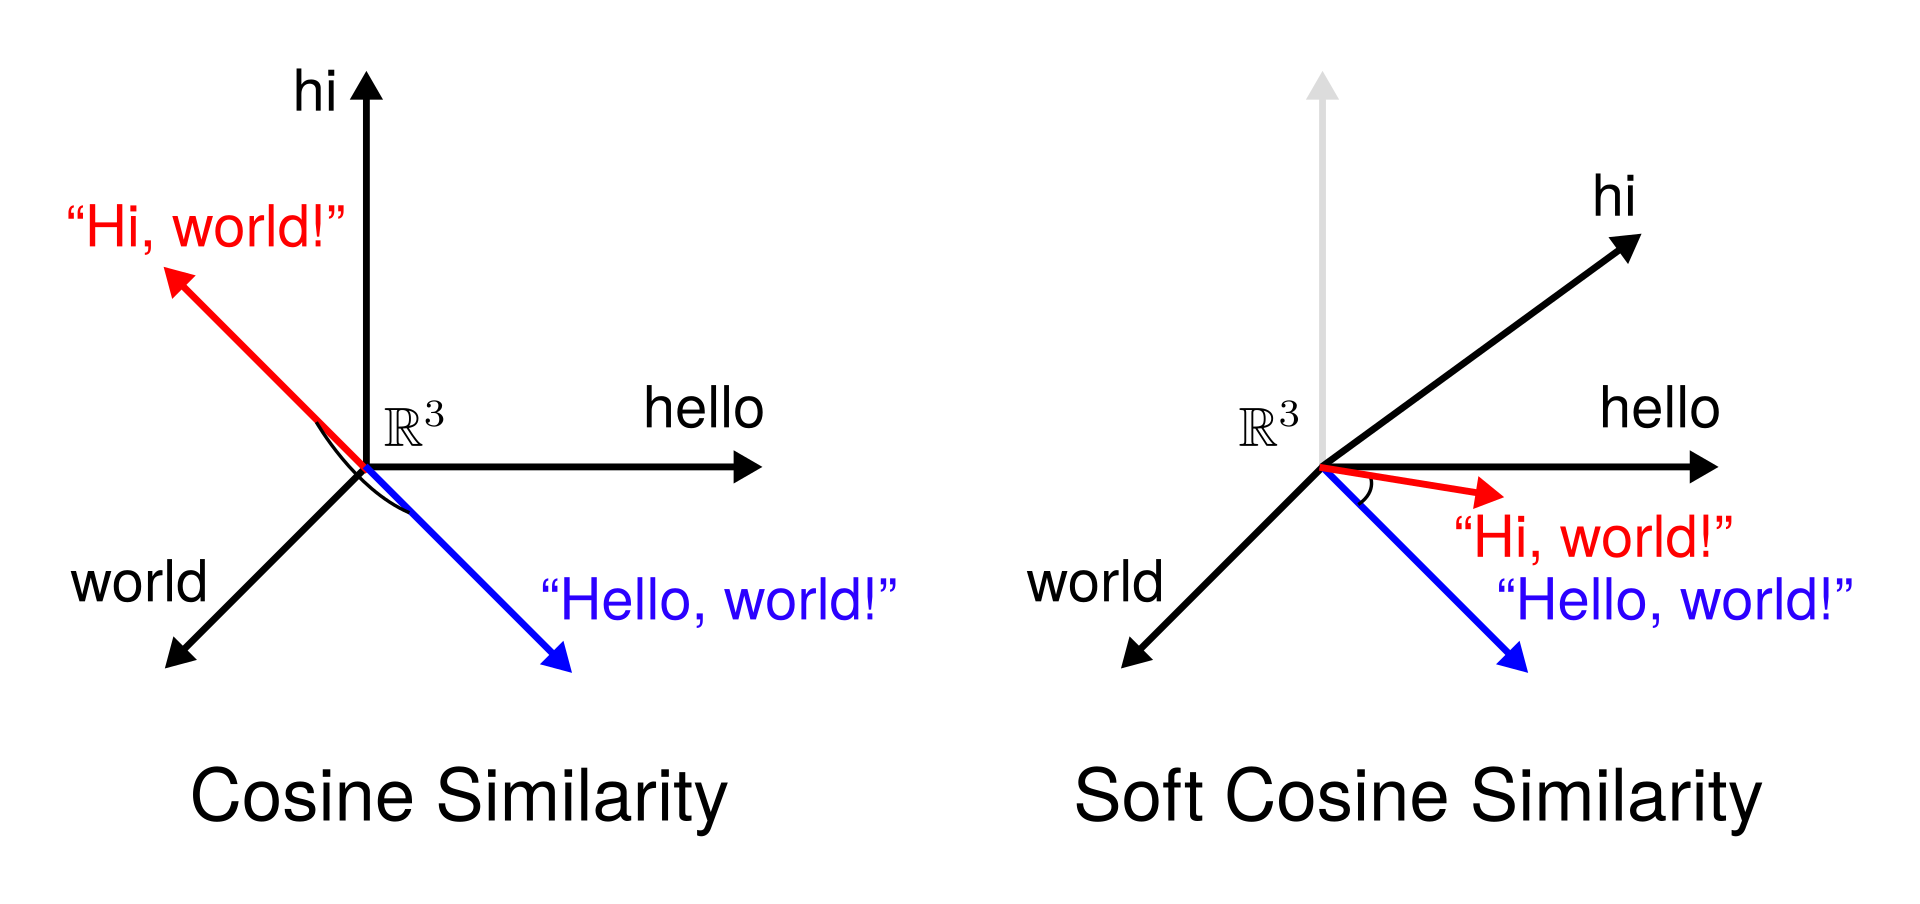
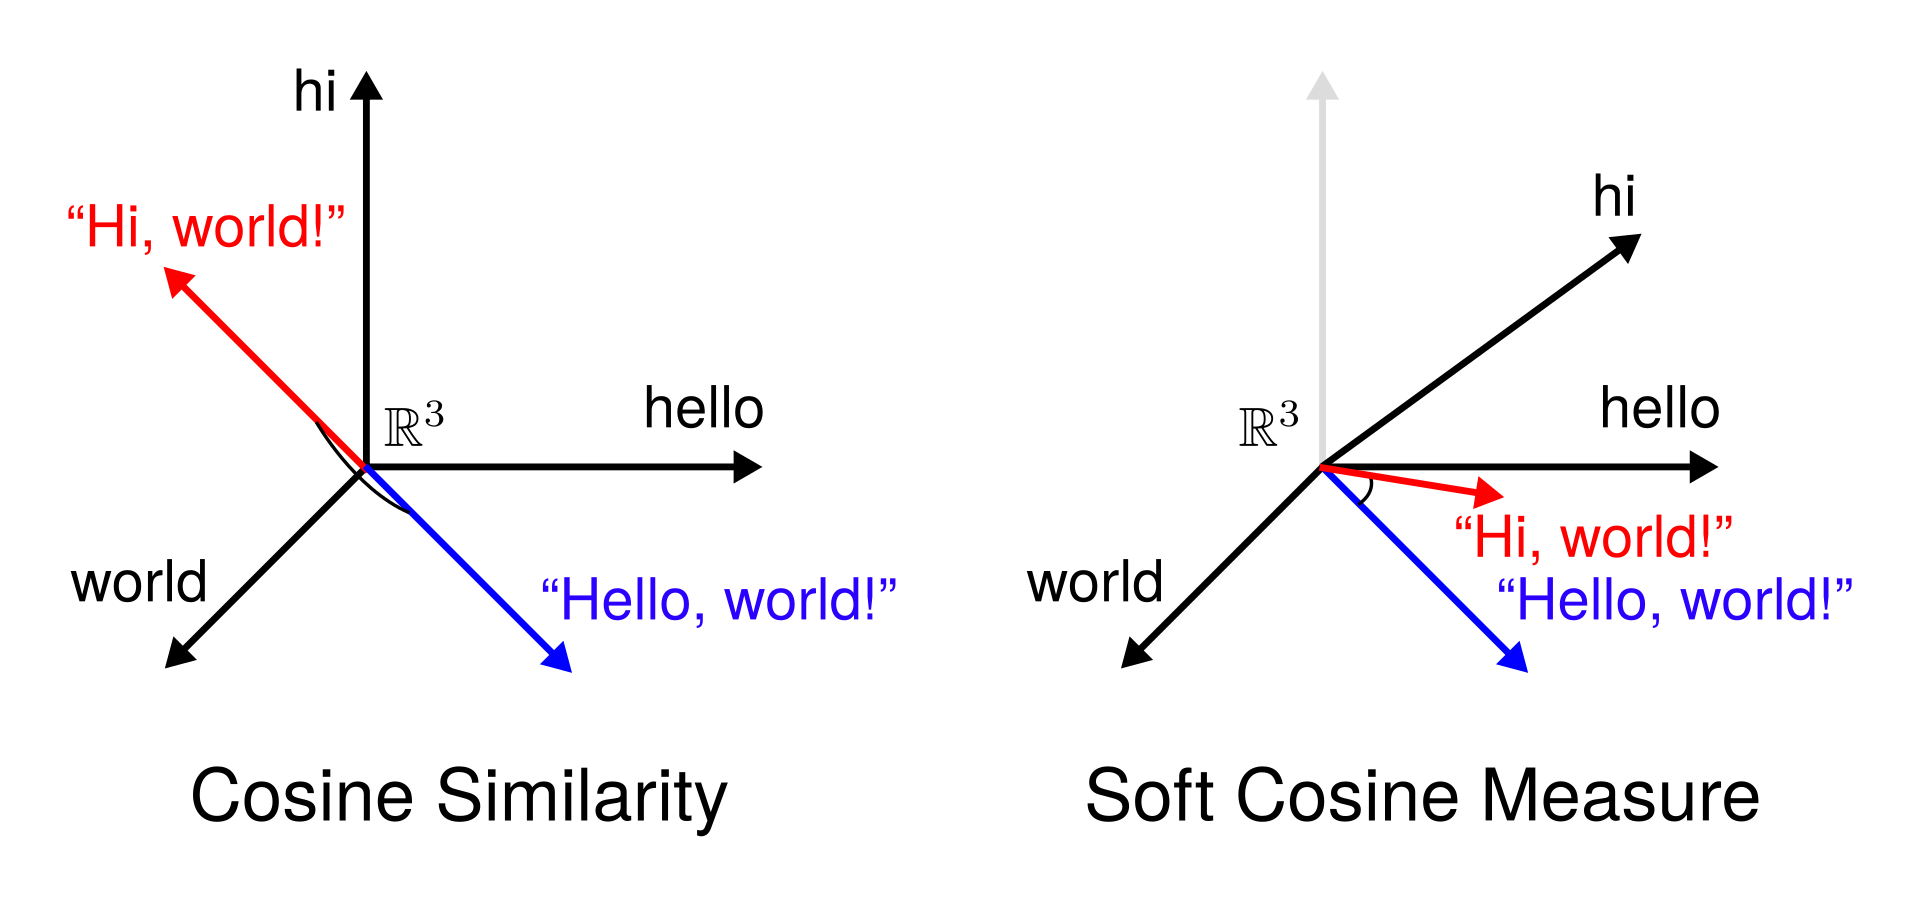
Rename Soft Cosine Similarity to Soft Cosine Measure

Changed region(s): [[0.5625, 0.8363, 0.9375, 0.9292]]

diff --git a/gensim/models/keyedvectors.py b/gensim/models/keyedvectors.py
@@ -562,10 +562,10 @@ class EuclideanKeyedVectors(KeyedVectorsBase):
 
     def similarity_matrix(self, corpus, dictionary, threshold=0.0, exponent=2.0,
                           nonzero_limit=100, dtype=REAL):
-        """Constructs a term similarity matrix for computing Soft Cosine Similarity.
+        """Constructs a term similarity matrix for computing Soft Cosine Measure.
 
         Constructs a a sparse term similarity matrix in the `scipy.sparse.csc_matrix` format for
-        computing Soft Cosine Similarity between documents.
+        computing Soft Cosine Measure between documents.
 
         Parameters
         ----------
@@ -582,7 +582,7 @@ class EuclideanKeyedVectors(KeyedVectorsBase):
         nonzero_limit : int, optional
             The maximum number of non-zero elements outside the diagonal in a single row or column
             of the term similarity matrix. Setting `nonzero_limit` to a constant ensures that the
-            time complexity of computing the Soft Cosine Similarity will be linear in the document
+            time complexity of computing the Soft Cosine Measure will be linear in the document
             length rather than quadratic. Defaults to `100`.
         dtype : numpy.dtype, optional
             Data-type of the term similarity matrix. Defaults to `numpy.float32`.
@@ -595,9 +595,9 @@ class EuclideanKeyedVectors(KeyedVectorsBase):
         See Also
         --------
         gensim.matutils.softcossim
-            The Soft Cosine Similarity.
+            The Soft Cosine Measure.
         gensim.similarities.docsim.SoftCosineSimilarity
-            A class for performing corpus-based similarity queries with Soft Cosine Similarity.
+            A class for performing corpus-based similarity queries with Soft Cosine Measure.
 
         References
         ----------

diff --git a/gensim/matutils.py b/gensim/matutils.py
@@ -756,9 +756,9 @@ def cossim(vec1, vec2):
 
 
 def softcossim(vec1, vec2, similarity_matrix):
-    """Return Soft Cosine Similarity between two vectors given a term similarity matrix.
+    """Return Soft Cosine Measure between two vectors given a term similarity matrix.
 
-    Return Soft Cosine Similarity between two sparse vectors given a sparse term similarity matrix
+    Return Soft Cosine Measure between two sparse vectors given a sparse term similarity matrix
     in the `scipy.sparse.csc_matrix` format. The similarity is a number between <-1.0, 1.0>, higher
     is more similar.
 
@@ -774,7 +774,7 @@ def softcossim(vec1, vec2, similarity_matrix):
     Returns
     -------
     similarity_matrix.dtype
-        The Soft Cosine Similarity between `vec1` and `vec2`.
+        The Soft Cosine Measure between `vec1` and `vec2`.
 
     Raises
     ------
@@ -786,11 +786,11 @@ def softcossim(vec1, vec2, similarity_matrix):
     gensim.models.keyedvectors.EuclideanKeyedVectors.similarity_matrix
         A term similarity matrix produced from term embeddings.
     gensim.similarities.docsim.SoftCosineSimilarity
-        A class for performing corpus-based similarity queries with Soft Cosine Similarity.
+        A class for performing corpus-based similarity queries with Soft Cosine Measure.
 
     References
     ----------
-    Soft Cosine Similarity was perhaps first defined by [sidorovetal14]_.
+    Soft Cosine Measure was perhaps first defined by [sidorovetal14]_.
 
     .. [sidorovetal14] Grigori Sidorov et al., "Soft Similarity and Soft Cosine Measure: Similarity
        of Features in Vector Space Model", 2014.

diff --git a/gensim/similarities/docsim.py b/gensim/similarities/docsim.py
@@ -565,7 +565,7 @@ class MatrixSimilarity(interfaces.SimilarityABC):
 
 
 class SoftCosineSimilarity(interfaces.SimilarityABC):
-    """Document similarity (like MatrixSimilarity) that uses Soft Cosine Similarity as a similarity
+    """Document similarity (like MatrixSimilarity) that uses Soft Cosine Measure as a similarity
     measure.
 
     Parameters
@@ -582,7 +582,7 @@ class SoftCosineSimilarity(interfaces.SimilarityABC):
     gensim.models.keyedvectors.EuclideanKeyedVectors.similarity_matrix
         A term similarity matrix produced from term embeddings.
     gensim.matutils.softcossim
-        The Soft Cosine Similarity.
+        The Soft Cosine Measure.
 
     Examples
     --------
